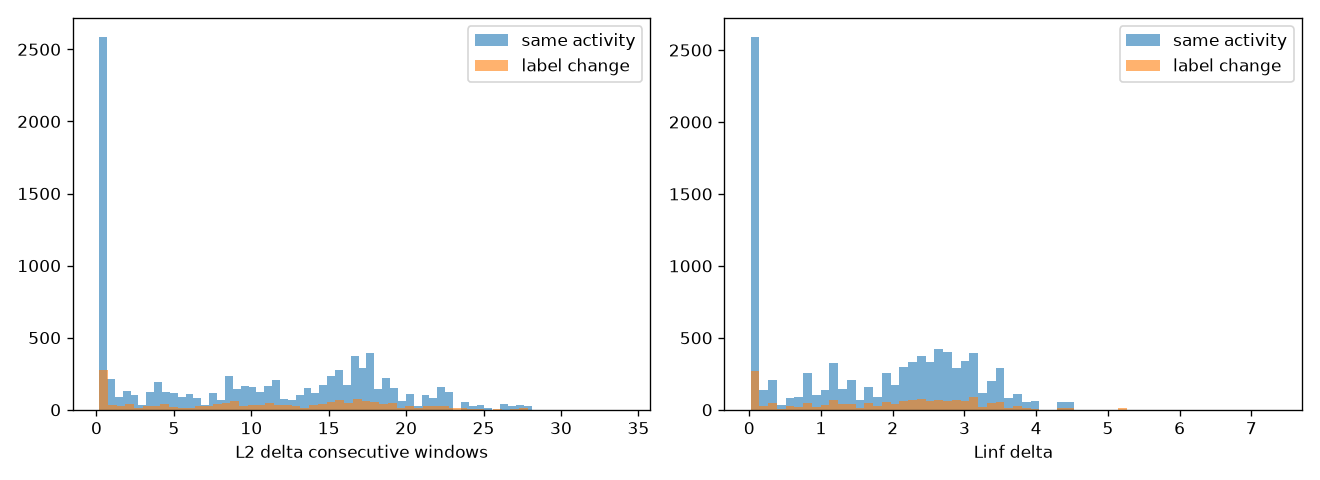
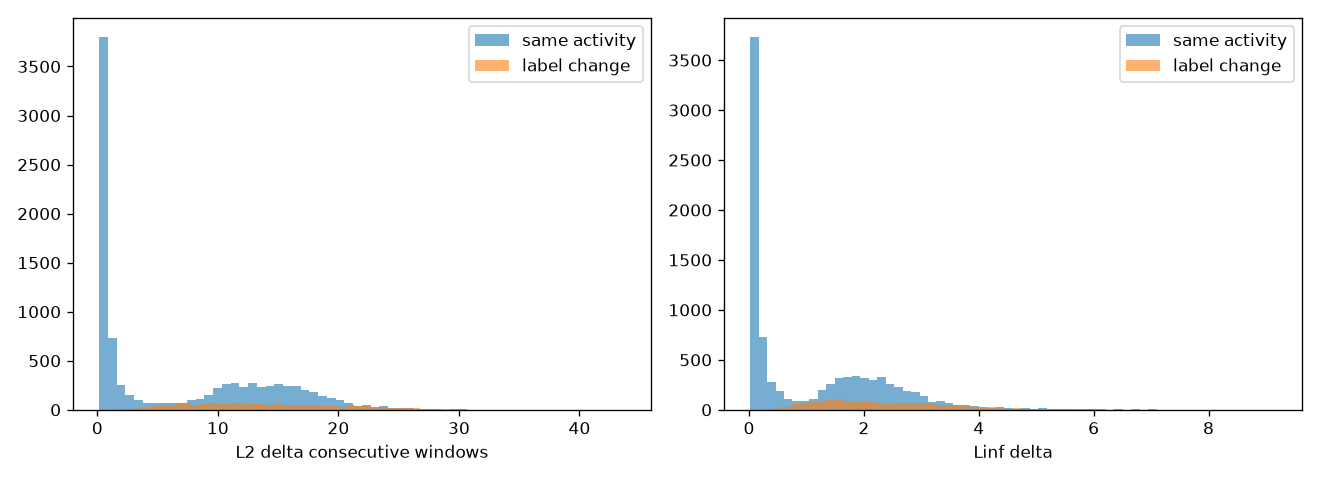
Fix 05 indexing bug: x indexed by per-recording win_idx, 98.2% of pairs read exp01 signals; recompute Q1/correlation/coverage (pre-fix values at cefd171)

diff --git a/scripts/05_audit_temporal_events.py b/scripts/05_audit_temporal_events.py
@@ -1,7 +1,14 @@
 #!/usr/bin/env python3
 """05_audit_temporal_events.py — Q1 temporal distances, Q2 candidate event-region
 coverage, correlation structure (diagonal box vs correlated set). Budgets are FIT
-ON TRAIN SUBJECTS ONLY, then evaluated on val/test. No CROWN, no backbone."""
+ON TRAIN SUBJECTS ONLY, then evaluated on val/test. No CROWN, no backbone.
+
+FIX 2026-10-15 (found by G1 re-verification): win_idx is PER-RECORDING (restarts
+at 0), but x rows are in global build order. The pre-fix version indexed x with
+win_idx, so 98.2% of pairs read signals from exp01's windows while keeping labels
+of the current recording -- all Q1/correlation/coverage numbers were wrong.
+Signals are now indexed via df["row_id"] (global position in windows.npz)."""
+
 import json
 from pathlib import Path
 
@@ -32,6 +39,10 @@ def main() -> None:
     man = pd.read_parquet(DATA / "window_manifest.parquet")
     spl = pd.read_parquet(DATA / "windows_with_split.parquet")
     df = man.merge(spl[["exp", "win_idx", "split"]], on=["exp", "win_idx"], how="left")
+    # global row id == position in windows.npz (03 appends rows in this order)
+    assert len(x) == len(df), "windows.npz and window_manifest out of sync"
+    df["row_id"] = np.arange(len(df))
+
 
     # ---- consecutive pairs within the same recording (never across) ----
     pair_rows = []
@@ -44,15 +55,17 @@ def main() -> None:
                 continue
             ra, rb = idx.loc[a], idx.loc[b]
             pair_rows.append({
-                "exp": exp, "i": int(a), "j": int(b), "split": ra["split"],
+                "exp": exp, "ri": int(ra["row_id"]), "rj": int(rb["row_id"]),
+                "split": ra["split"],
                 "same_activity": bool(ra["label_majority"] == rb["label_majority"]
                                       and ra["label_policy"] == "pure"
                                       and rb["label_policy"] == "pure"),
                 "label_change": bool(ra["label_majority"] != rb["label_majority"]),
             })
     pairs = pd.DataFrame(pair_rows)
-    di = x[pairs["i"].to_numpy()]
-    dj = x[pairs["j"].to_numpy()]
+    di = x[pairs["ri"].to_numpy()]
+    dj = x[pairs["rj"].to_numpy()]
+
     delta = (dj - di).reshape(len(pairs), -1)
     l2 = np.linalg.norm(delta, axis=1)
     linf = np.abs(delta).max(axis=1)
@@ -73,7 +86,8 @@ def main() -> None:
         for ci, cname in enumerate(channel_names):
             co = []
             for exp, g in df.groupby("exp"):
-                order = g.sort_values("win_idx")["win_idx"].to_numpy()
+                order = g.sort_values("win_idx")["row_id"].to_numpy()
+
                 arr = x[order, :, :]
                 for k in range(len(arr) - lag):
                     a = arr[k, ci].ravel()
